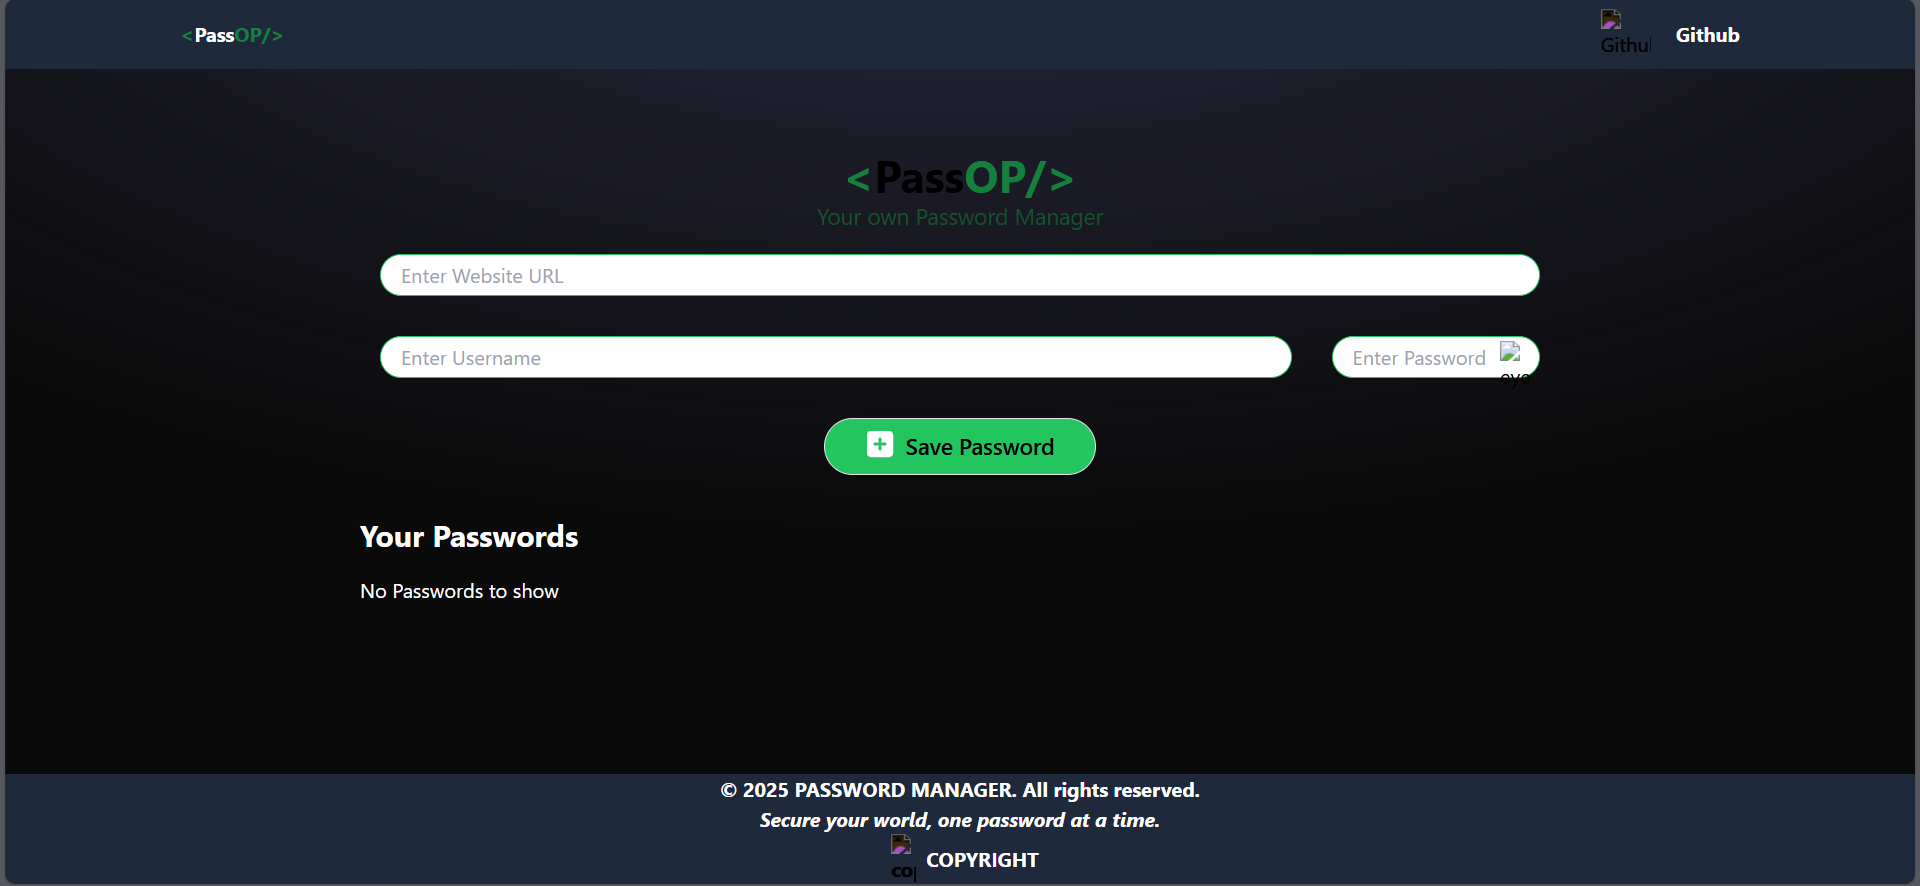
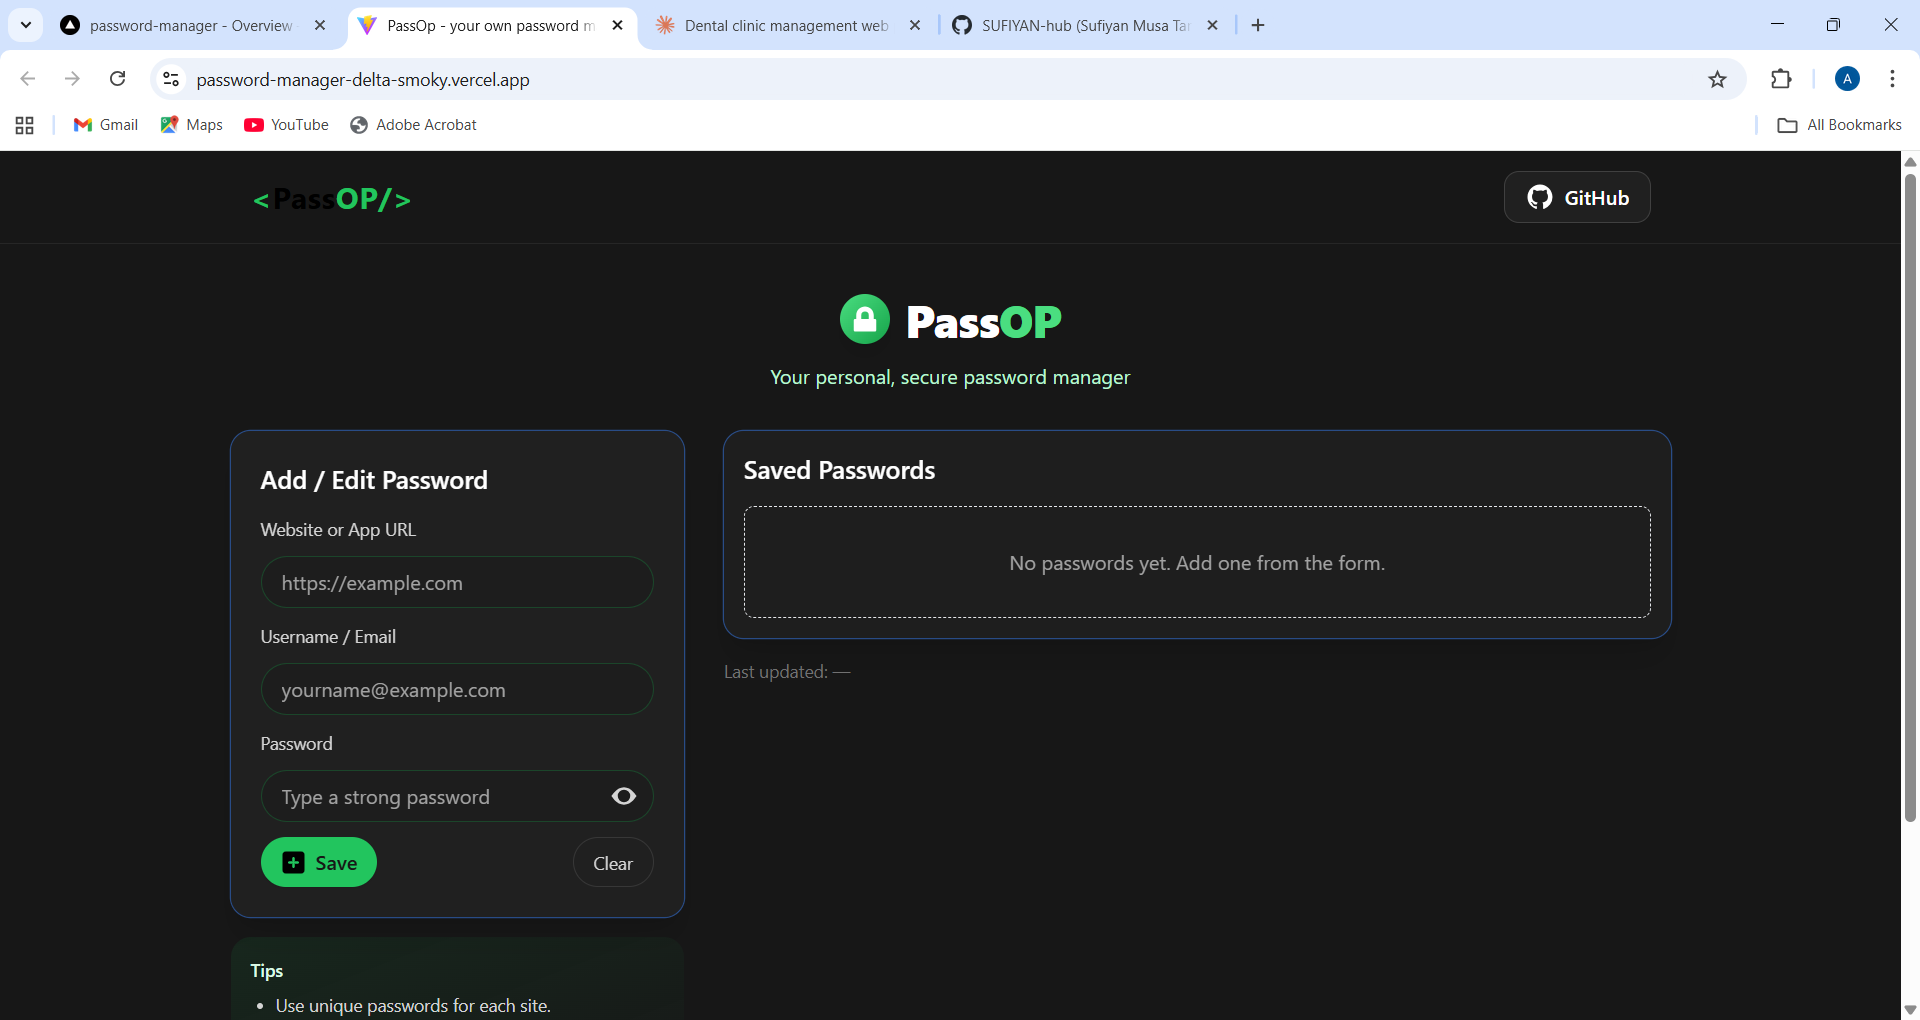
Updated Projets

diff --git a/src/data/projectsData.ts b/src/data/projectsData.ts
@@ -43,6 +43,28 @@ export const projects: Project[] = [
     githubUrl: "https://github.com/SUFIYAN-hub/Password-Manager",
     liveUrl: "https://password-manager-delta-smoky.vercel.app/",
     category: "Frontend"
+  },
+  {
+    id: 4,
+    title: "Werewolf Multiplayer Game",
+    description: "Play Werewolf online with friends while never missing a prayer! 🐺🕌 Accurate Islamic prayer times built-in.",
+    longDescription: "A multiplayer social deduction game where players work together to find hidden werewolves among villagers. Features real-time chat, special roles (Seer, Doctor, Hunter), and integrated Islamic prayer times that automatically pause gameplay. Play with friends using room codes in this exciting blend of strategy and deduction!",
+    image: "/images/projects/werewolf.jpg",
+    technologies: ["React", "Nodejs", "Tailwind CSS"],
+    githubUrl: "https://github.com/SUFIYAN-hub/werewolf-game",
+    liveUrl: "https://werewolf-game-rho.vercel.app/",
+    category: "Full Stack"
+  },
+  {
+    id: 5,
+    title: "Dental Clinic",
+    description: "A modern, responsive dental clinic management website built with React.js, featuring 10 pages including doctor profiles, gallery, testimonials, and online appointment booking.",
+    longDescription: "DentalCare Clinic Management is a fully responsive frontend web application designed to provide comprehensive digital presence for dental clinics. Built with React.js, the website features 10 interactive pages including an enhanced home page with doctor profiles, dedicated team page with professional images, gallery showcasing clinic facilities, patient testimonials with review submission, FAQ section with search functionality, and online appointment booking with validation. The application uses modern UI/UX design with gradient themes, smooth animations, and mobile-first responsive layout ensuring seamless experience across all devices.",
+    image: "/images/projects/dental.jpg",
+    technologies: ["React", "Tailwind CSS"],
+    githubUrl: "https://github.com/SUFIYAN-hub/dental-clinic-app",
+    liveUrl: "https://dental-clinic-app-eta.vercel.app/",
+    category: "Frontend"
   }
 ];
 
